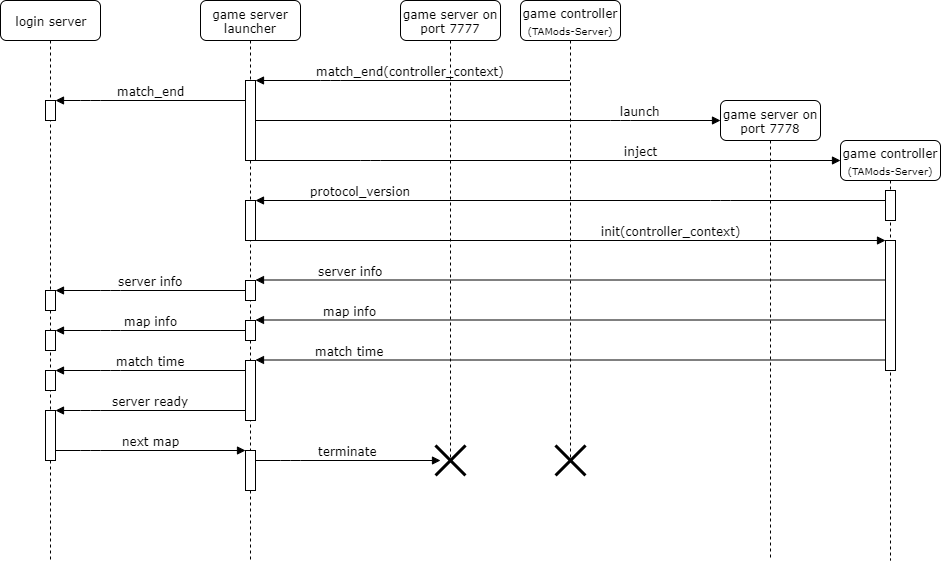
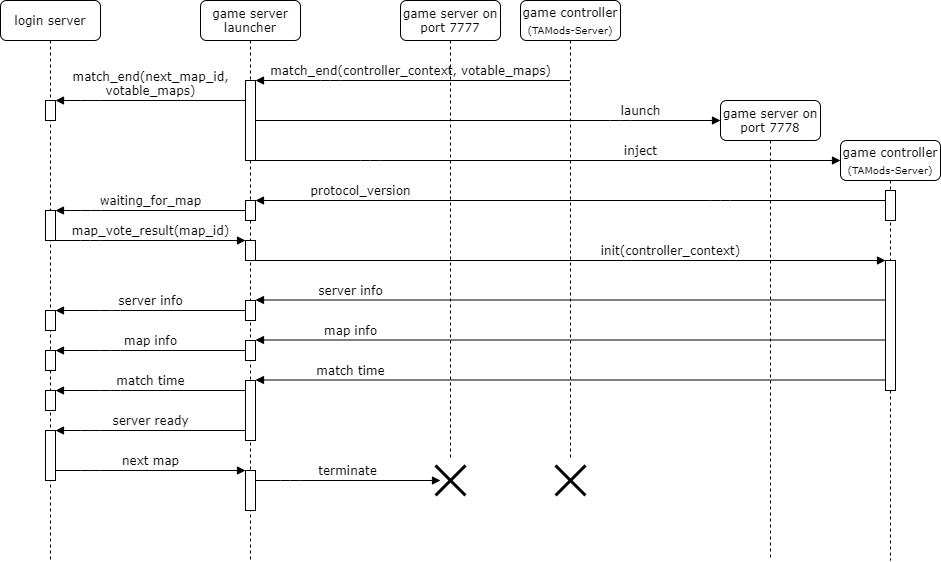
Update map change sequence diagram and description

diff --git a/docs/design_map_change.md b/docs/design_map_change.md
@@ -10,14 +10,21 @@ and load the PNG file.
 1. the launcher uses two ports for running game servers 7777 and 7778. Only one of 
    these ports will generally be in use at a time.
 
-2. the controller of a server sends a match end message with controller_context when 
-   the match ends. The controller guarantees that this is the last message that it will send.
+2. the controller of a server sends a match end message with controller_context and a list of
+   maps that can be voted for when the match ends. The controller guarantees that this is the
+   last message that it will send.
    
 3. the launcher launches a new server on the unused port
 
-4. the new controller instance will connect to the launcher and send a controller version message
+4. the new controller instance will connect to the launcher and send a protocol version message
 
-5. in response the launcher will send the controller_context to the new controller instance
+5. the launcher will notify the login server that the game controller is ready to start loading
+   the next map
+   
+6. the login server will reply with a message containing the highest-voted map ID
+
+5. the launcher will put that map ID in the controller_context and send it to
+   the new controller instance, which can then start loading the map
 
 6. when receiving match time from the new server, the launcher will send a server-ready
    message containing the port of the new server to the login server
@@ -31,6 +38,6 @@ and load the PNG file.
    the new one as the active server
 
 At the moment the time between the end of a match and the switch to the new server is
-determined by how long it takes the new server to get ready; the login server has no
-control over this. If in the future we manage to implement the end screen, we'll probably
-change this.
+determined by how long it takes the new server to get ready; the login server could delay
+its response to the "waiting for map" message, but it does not do so at the moment.
+If in the future we implement the match summary screen, we'll probably change this.
